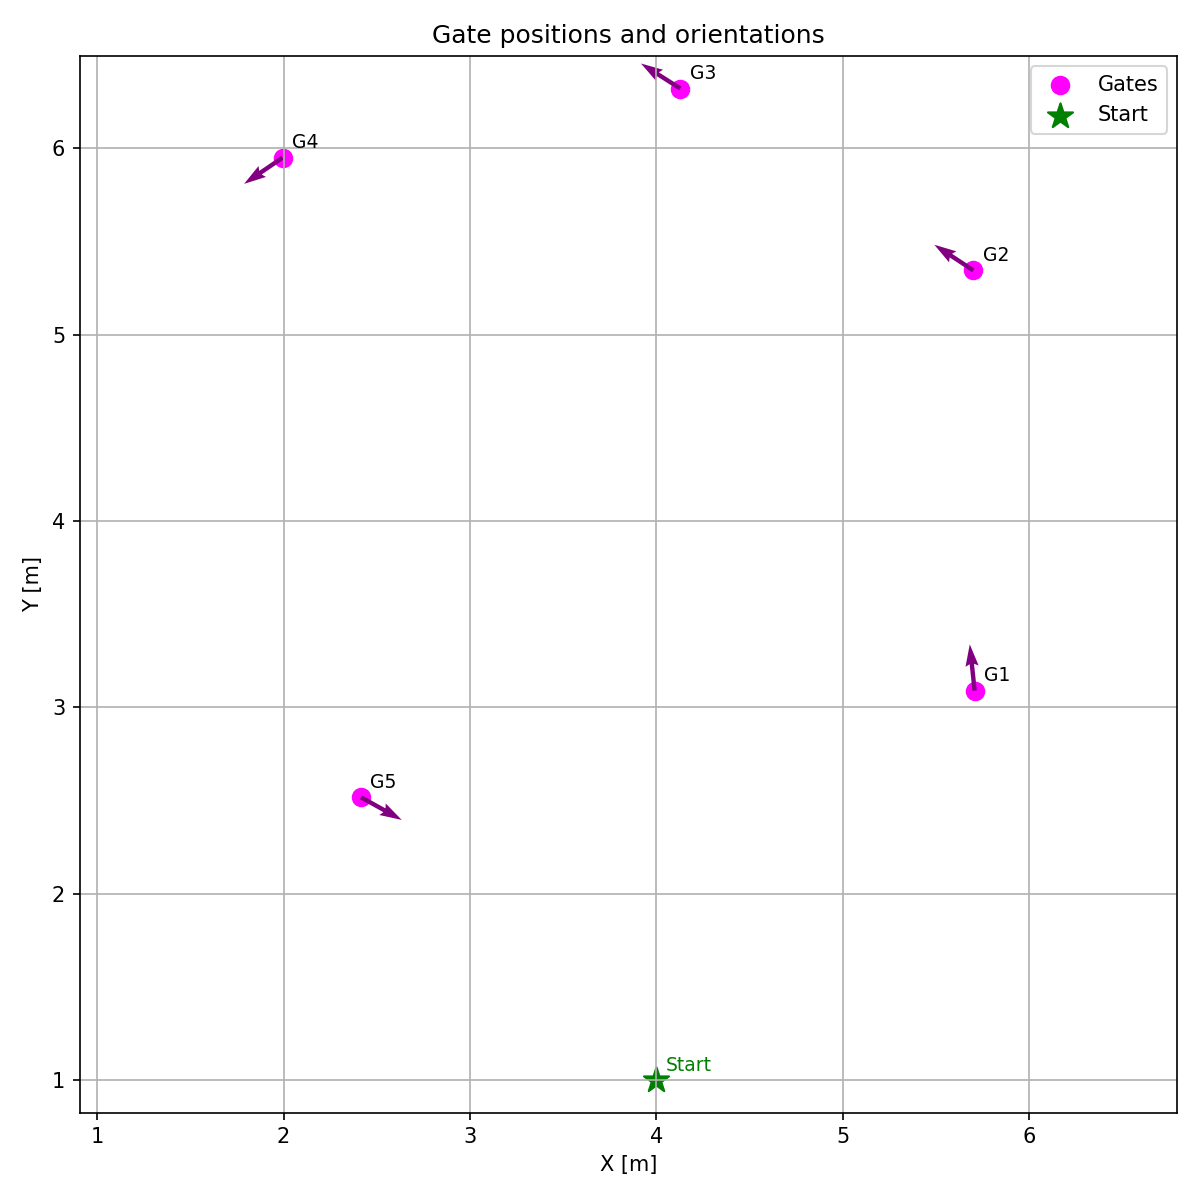
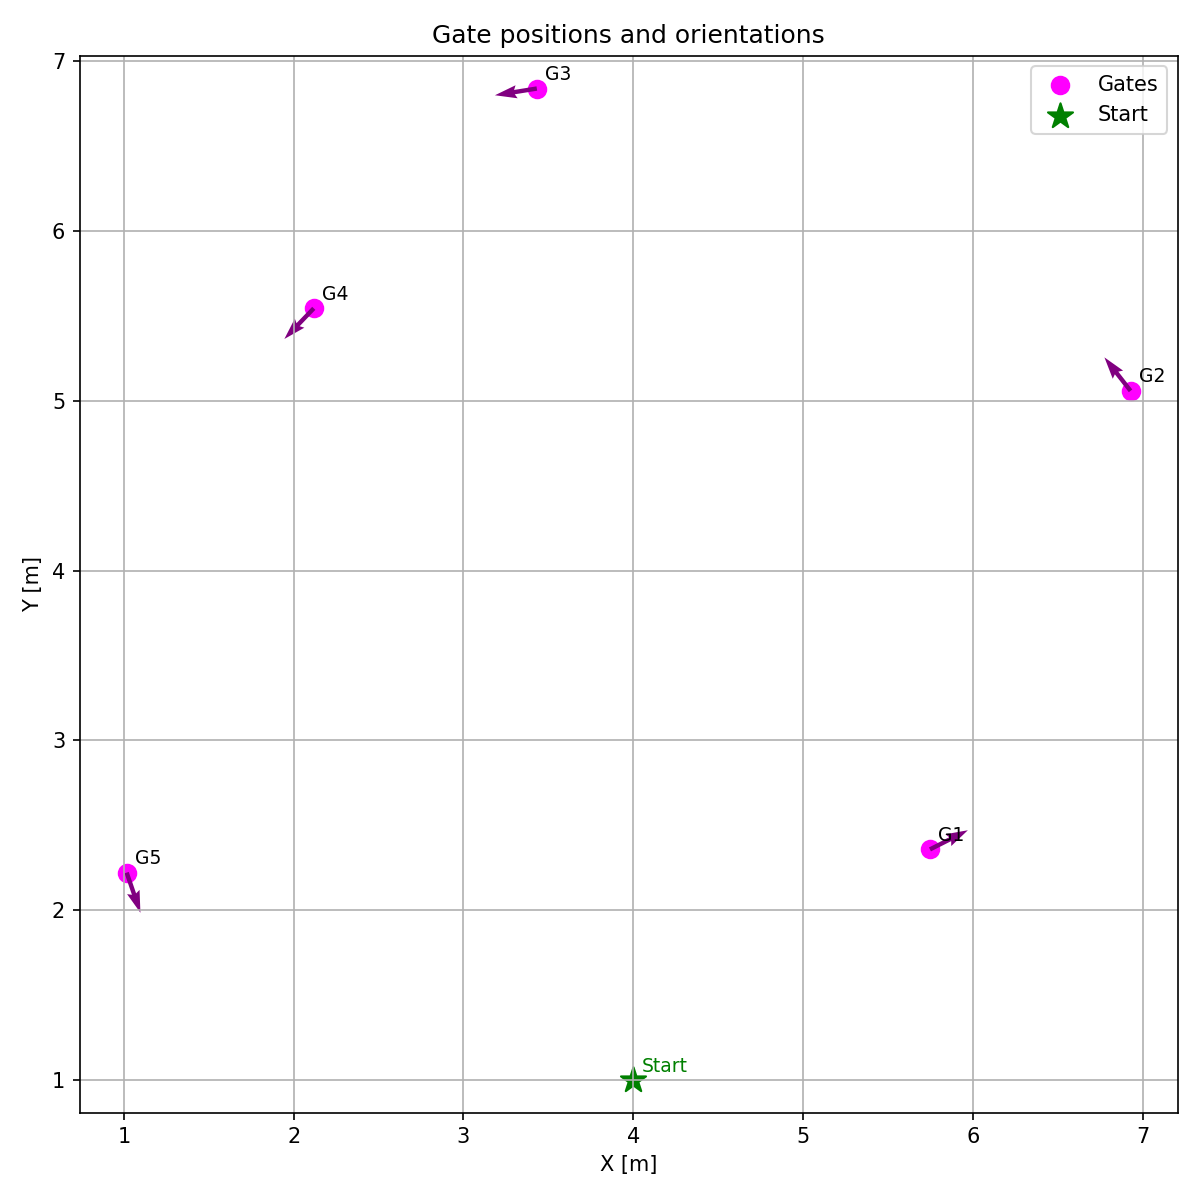
added a booleen to hide terminal messages

diff --git a/controllers/main/assignment/my_assignment.py b/controllers/main/assignment/my_assignment.py
@@ -100,7 +100,12 @@ class MyAssignment:
         self.racing_waypoint_index = 0
 
         # Toggle to enable/disable final race plot generation
-        self.show_plot = True
+        self.show_plot = False
+        self.show_terminal_prints = False
+
+    def terminal_print(self, message):
+        if self.show_terminal_prints:
+            print(message)
 
     def get_corner_positions_2d_sorted(self, contour):
         #to get the four corners postions in 3D space
@@ -151,14 +156,14 @@ class MyAssignment:
             self.start_y = sensor_data['y_global']
             self.start_yaw = sensor_data['yaw']
             self.state = HOVER
-            print("Initialized, transitioning to HOVER state")
+            self.terminal_print("Initialized, transitioning to HOVER state")
 
         if self.state == HOVER:
             control_command = [self.start_x, self.start_y, 1.15, self.start_yaw]
             if abs(sensor_data['z_global'] - 1.15) < 0.05:
                 self.state = DETECT_1
                 self.yaw_target = sensor_data['yaw']
-                print("Reached hover altitude, transitioning to DETECT_1 state")
+                self.terminal_print("Reached hover altitude, transitioning to DETECT_1 state")
         
         if self.state == DETECT_1:
             gate_valid = False
@@ -254,7 +259,7 @@ class MyAssignment:
                 # On se décale d'environ 25% de la distance estimée.
                 # Plafonné entre 0.35m (minimum syndical) et 1.0m (maximum pour ne pas taper un mur).
                 lateral_travel = min(1.0, max(0.35, self.current_estimated_dist * 0.25))
-                print(f"Porte détectée à {self.current_estimated_dist:.2f}m. Déplacement latéral de {lateral_travel:.2f}m")
+                self.terminal_print(f"Porte détectée à {self.current_estimated_dist:.2f}m. Déplacement latéral de {lateral_travel:.2f}m")
                 
                 yaw = sensor_data['yaw']
                 self.x_target = sensor_data['x_global'] + lateral_travel * np.sin(yaw)
@@ -293,7 +298,7 @@ class MyAssignment:
             if np.linalg.norm(np.array([sensor_data['x_global'] - self.x_target, sensor_data['y_global'] - self.y_target, sensor_data['z_global'] - self.z_target])) < 0.05:
                 self.state = DETECT_2
                 self.yaw_target = sensor_data['yaw']
-                print("Reached lateral travel position, transitioning to DETECT_2 state")
+                self.terminal_print("Reached lateral travel position, transitioning to DETECT_2 state")
             control_command = [self.x_target, self.y_target, self.z_target, self.yaw_target]
 
         if self.state == DETECT_2:
@@ -351,7 +356,7 @@ class MyAssignment:
                     angle_diff = abs(clock_angle - expected_center_angle)
                     angle_diff = min(angle_diff, 360 - angle_diff)
                     
-                    print(f"[DETECT_2] Angle: {clock_angle:.1f}° | Attendu: {expected_center_angle:.1f}° | Différence: {angle_diff:.1f}°")
+                    self.terminal_print(f"[DETECT_2] Angle: {clock_angle:.1f}° | Attendu: {expected_center_angle:.1f}° | Différence: {angle_diff:.1f}°")
                     
                     # --- 3. VALIDATION AVEC TOLÉRANCE ---
                     # --- 3. VALIDATION AVEC TOLÉRANCE ---
@@ -390,7 +395,7 @@ class MyAssignment:
             # --- TRANSITIONS D'ÉTAT ---
             if gate_valid:
                 self.state = COMPUTE_GATE_POS
-                print("Gate 2 detected and validated, transitioning to COMPUTE_GATE_POS")
+                self.terminal_print("Gate 2 detected and validated, transitioning to COMPUTE_GATE_POS")
                 control_command = [sensor_data['x_global'], sensor_data['y_global'], sensor_data['z_global'], self.yaw_target]
             elif gate_in_sight:
                 # --- MODIFICATION : Freinage avec la position figée ---
@@ -465,7 +470,7 @@ class MyAssignment:
             
             self.spline_t = 0.0
             self.state = TRAVEL_GATE
-            print(f"Spline d'approche (avec Z-Clamp) calculée ! Début du vol...")
+            self.terminal_print(f"Spline d'approche (avec Z-Clamp) calculée ! Début du vol...")
 
         
         if self.state == TRAVEL_GATE:
@@ -509,7 +514,7 @@ class MyAssignment:
                 ]))
                 
                 if dist_to_exit < 0.2:
-                    print(f"Porte franchie ! Distance: {dist_to_exit:.2f}m")
+                    self.terminal_print(f"Porte franchie ! Distance: {dist_to_exit:.2f}m")
                     
                     self.stop_x = sensor_data['x_global']
                     self.stop_y = sensor_data['y_global']
@@ -524,8 +529,8 @@ class MyAssignment:
         
         if self.state == COMPUTE_PATH:
             if self.curr_gate_index < 5:
-                print("CRITICAL ERROR: Not all gate have been detected")
-            print("--- Vérification et Tri des portes ---")
+                self.terminal_print("CRITICAL ERROR: Not all gate have been detected")
+            self.terminal_print("--- Vérification et Tri des portes ---")
             
             # 1. On utilise le centre connu du circuit
             cx, cy = 4.0, 4.0
@@ -542,7 +547,7 @@ class MyAssignment:
             self.gate_pos = self.gate_pos[sorted_indices]
             self.gate_corner = self.gate_corner[sorted_indices]
             
-            print(f"Ordre des portes corrigé : {sorted_indices}")
+            self.terminal_print(f"Ordre des portes corrigé : {sorted_indices}")
             # ----------------------------------------------
                 
             nbr_of_lap = 2
@@ -627,13 +632,13 @@ class MyAssignment:
                 else:
                     plot_path = os.path.join(os.path.dirname(__file__), "race_gates_plot.png")
                     fig.savefig(plot_path, dpi=150)
-                    print(f"Plot saved to {plot_path} (GUI disabled in planner thread)")
+                    self.terminal_print(f"Plot saved to {plot_path} (GUI disabled in planner thread)")
                 if is_main_thread:
                     plt.close(fig)
             else:
-                print("Plotting disabled (show_plot=False)")
+                self.terminal_print("Plotting disabled (show_plot=False)")
             self.state = RACE
-            print("Computed racing path, transitioning to RACE state")
+            self.terminal_print("Computed racing path, transitioning to RACE state")
             control_command = [self.x_target, self.y_target, self.z_target, self.yaw_target]
 
         if self.state == RACE:
@@ -656,9 +661,9 @@ class MyAssignment:
                 if distance < 0.4:
                     self.racing_waypoint_index += 1
                     if self.racing_waypoint_index < len(self.racing_waypoints):
-                        print(f"Reached waypoint {self.racing_waypoint_index}, moving to next waypoint")
+                        self.terminal_print(f"Reached waypoint {self.racing_waypoint_index}, moving to next waypoint")
                     else:
-                        print("Reached final waypoint, race completed")
+                        self.terminal_print("Reached final waypoint, race completed")
                         
 
                 control_command = [self.x_target, self.y_target, self.z_target, self.yaw_target]